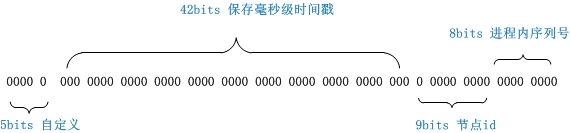
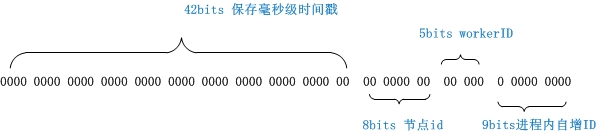
完善文档

diff --git a/src/donkeyid.h b/src/donkeyid.h
@@ -22,9 +22,9 @@
 #include <bits/types.h>
 
 #define TIMESTAMP_BITS 42   //时间所占bit位数
-#define NODE_ID_BITS 7      //节点所占bit位数
+#define NODE_ID_BITS 8      //节点所占bit位数
 #define WORKER_ID_BITS 5    //进程worker所占bit位数
-#define SEQUENCE_BITS 8     //毫秒内自增
+#define SEQUENCE_BITS 9     //毫秒内自增
 
 #define TIMESTAMP_MASK (-1LL^(-1LL<<TIMESTAMP_BITS))
 #define NODE_ID_MASK (-1^(-1<<NODE_ID_BITS))

diff --git a/README.md b/README.md
@@ -5,10 +5,10 @@
 ![bits.jpg](https://github.com/osgochina/donkeyid/blob/master/doc/bits.jpg?raw=true)
 
 > 如图所示，64bits 咱们分成了4个部分。
-> 1. 用户自定义端,因为最后生成的id需要乘10,需要进位，所以预留了位置。
-> 2. 毫秒级的时间戳,有42个bit.能够使用139年，从1970年开始计算，能使用到2109年，当然这些是可以扩展的。
-> 3. 自定义节点id,防止多进程运行产生重复id,能够512个节点。部署的时候可以配置好服务器id+处理进程id
-> 4. 进程内毫秒时间自增序号。一毫秒能产生256个id。也就是说并发1秒能产生256000个id。
+> 1. 毫秒级的时间戳,有42个bit.能够使用139年，从1970年开始计算，能使用到2109年，当然这些是可以扩展的,可以通知指定起始时间来延长这个日期长度。
+> 2. 自定义节点id,防止多进程运行产生重复id,能够256个节点。部署的时候可以配置好服务器id;
+> 4. 进程workerid，占位5bit，能够生成32个进程id。根据pid运算获得。
+> 4. 进程内毫秒时间自增序号。一毫秒能产生512个id。也就是说并发1秒能产生512000个id。
 ##使用
 ###安装
 > 下载代码到本地，进入项目文件夹，执行
